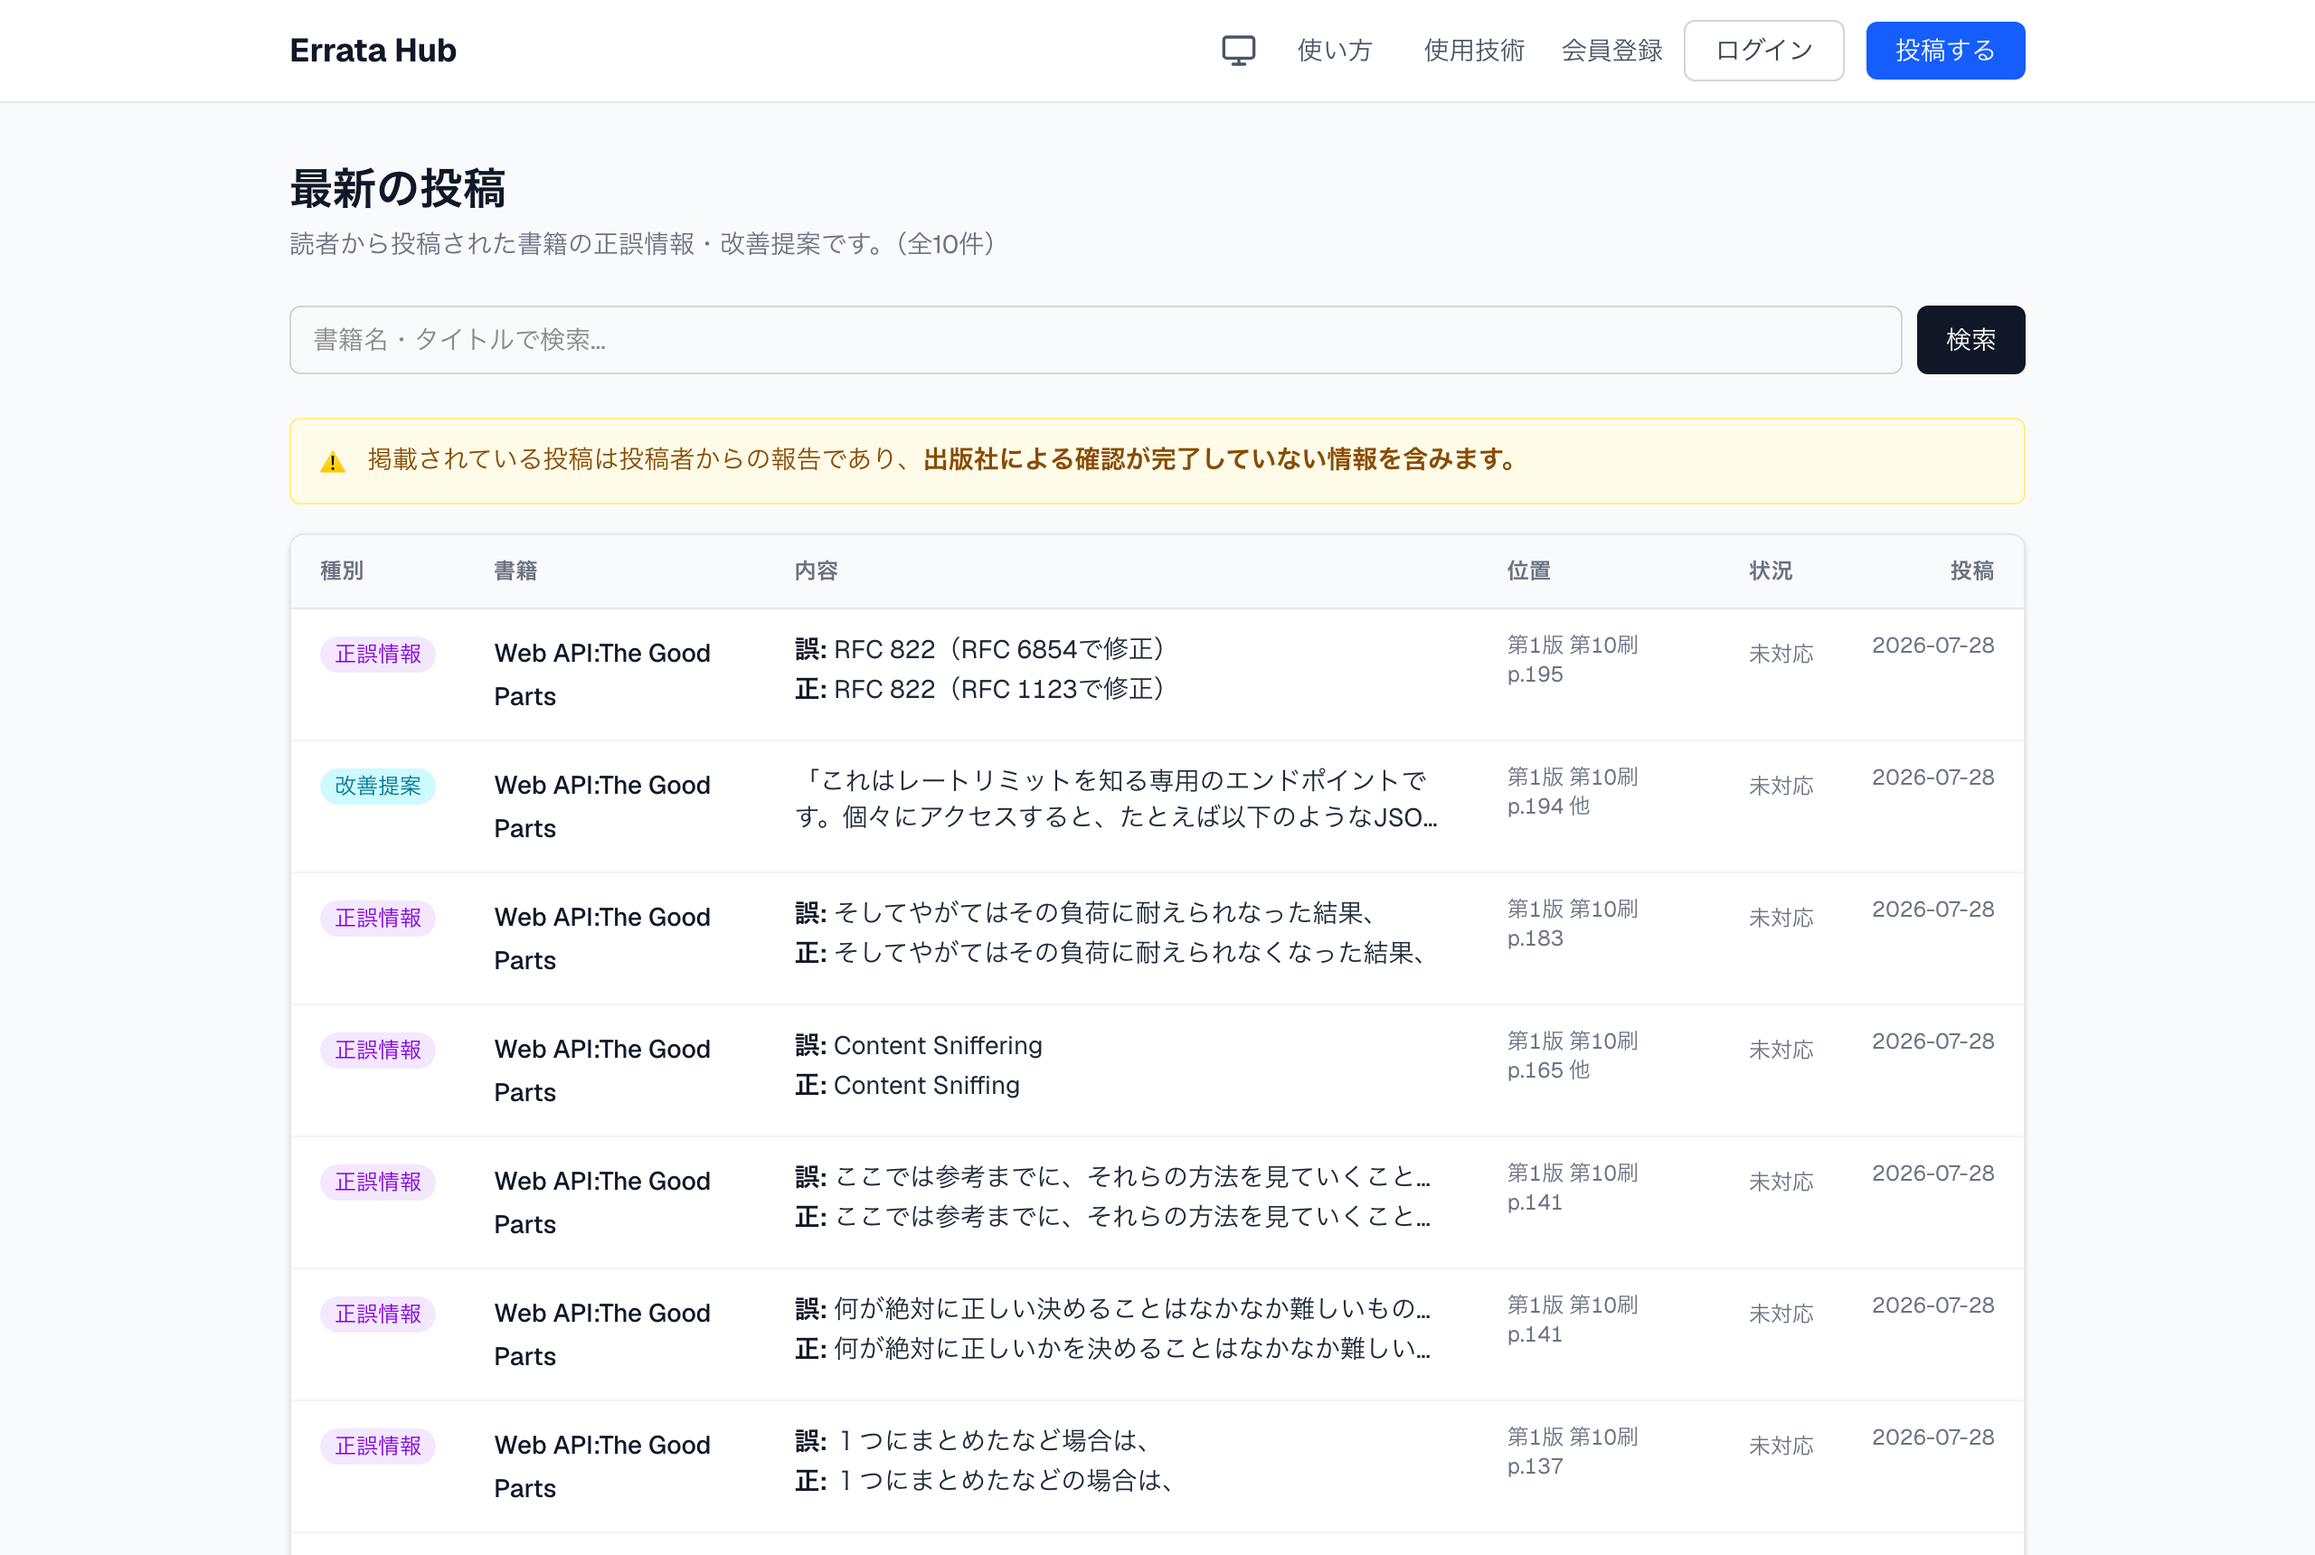
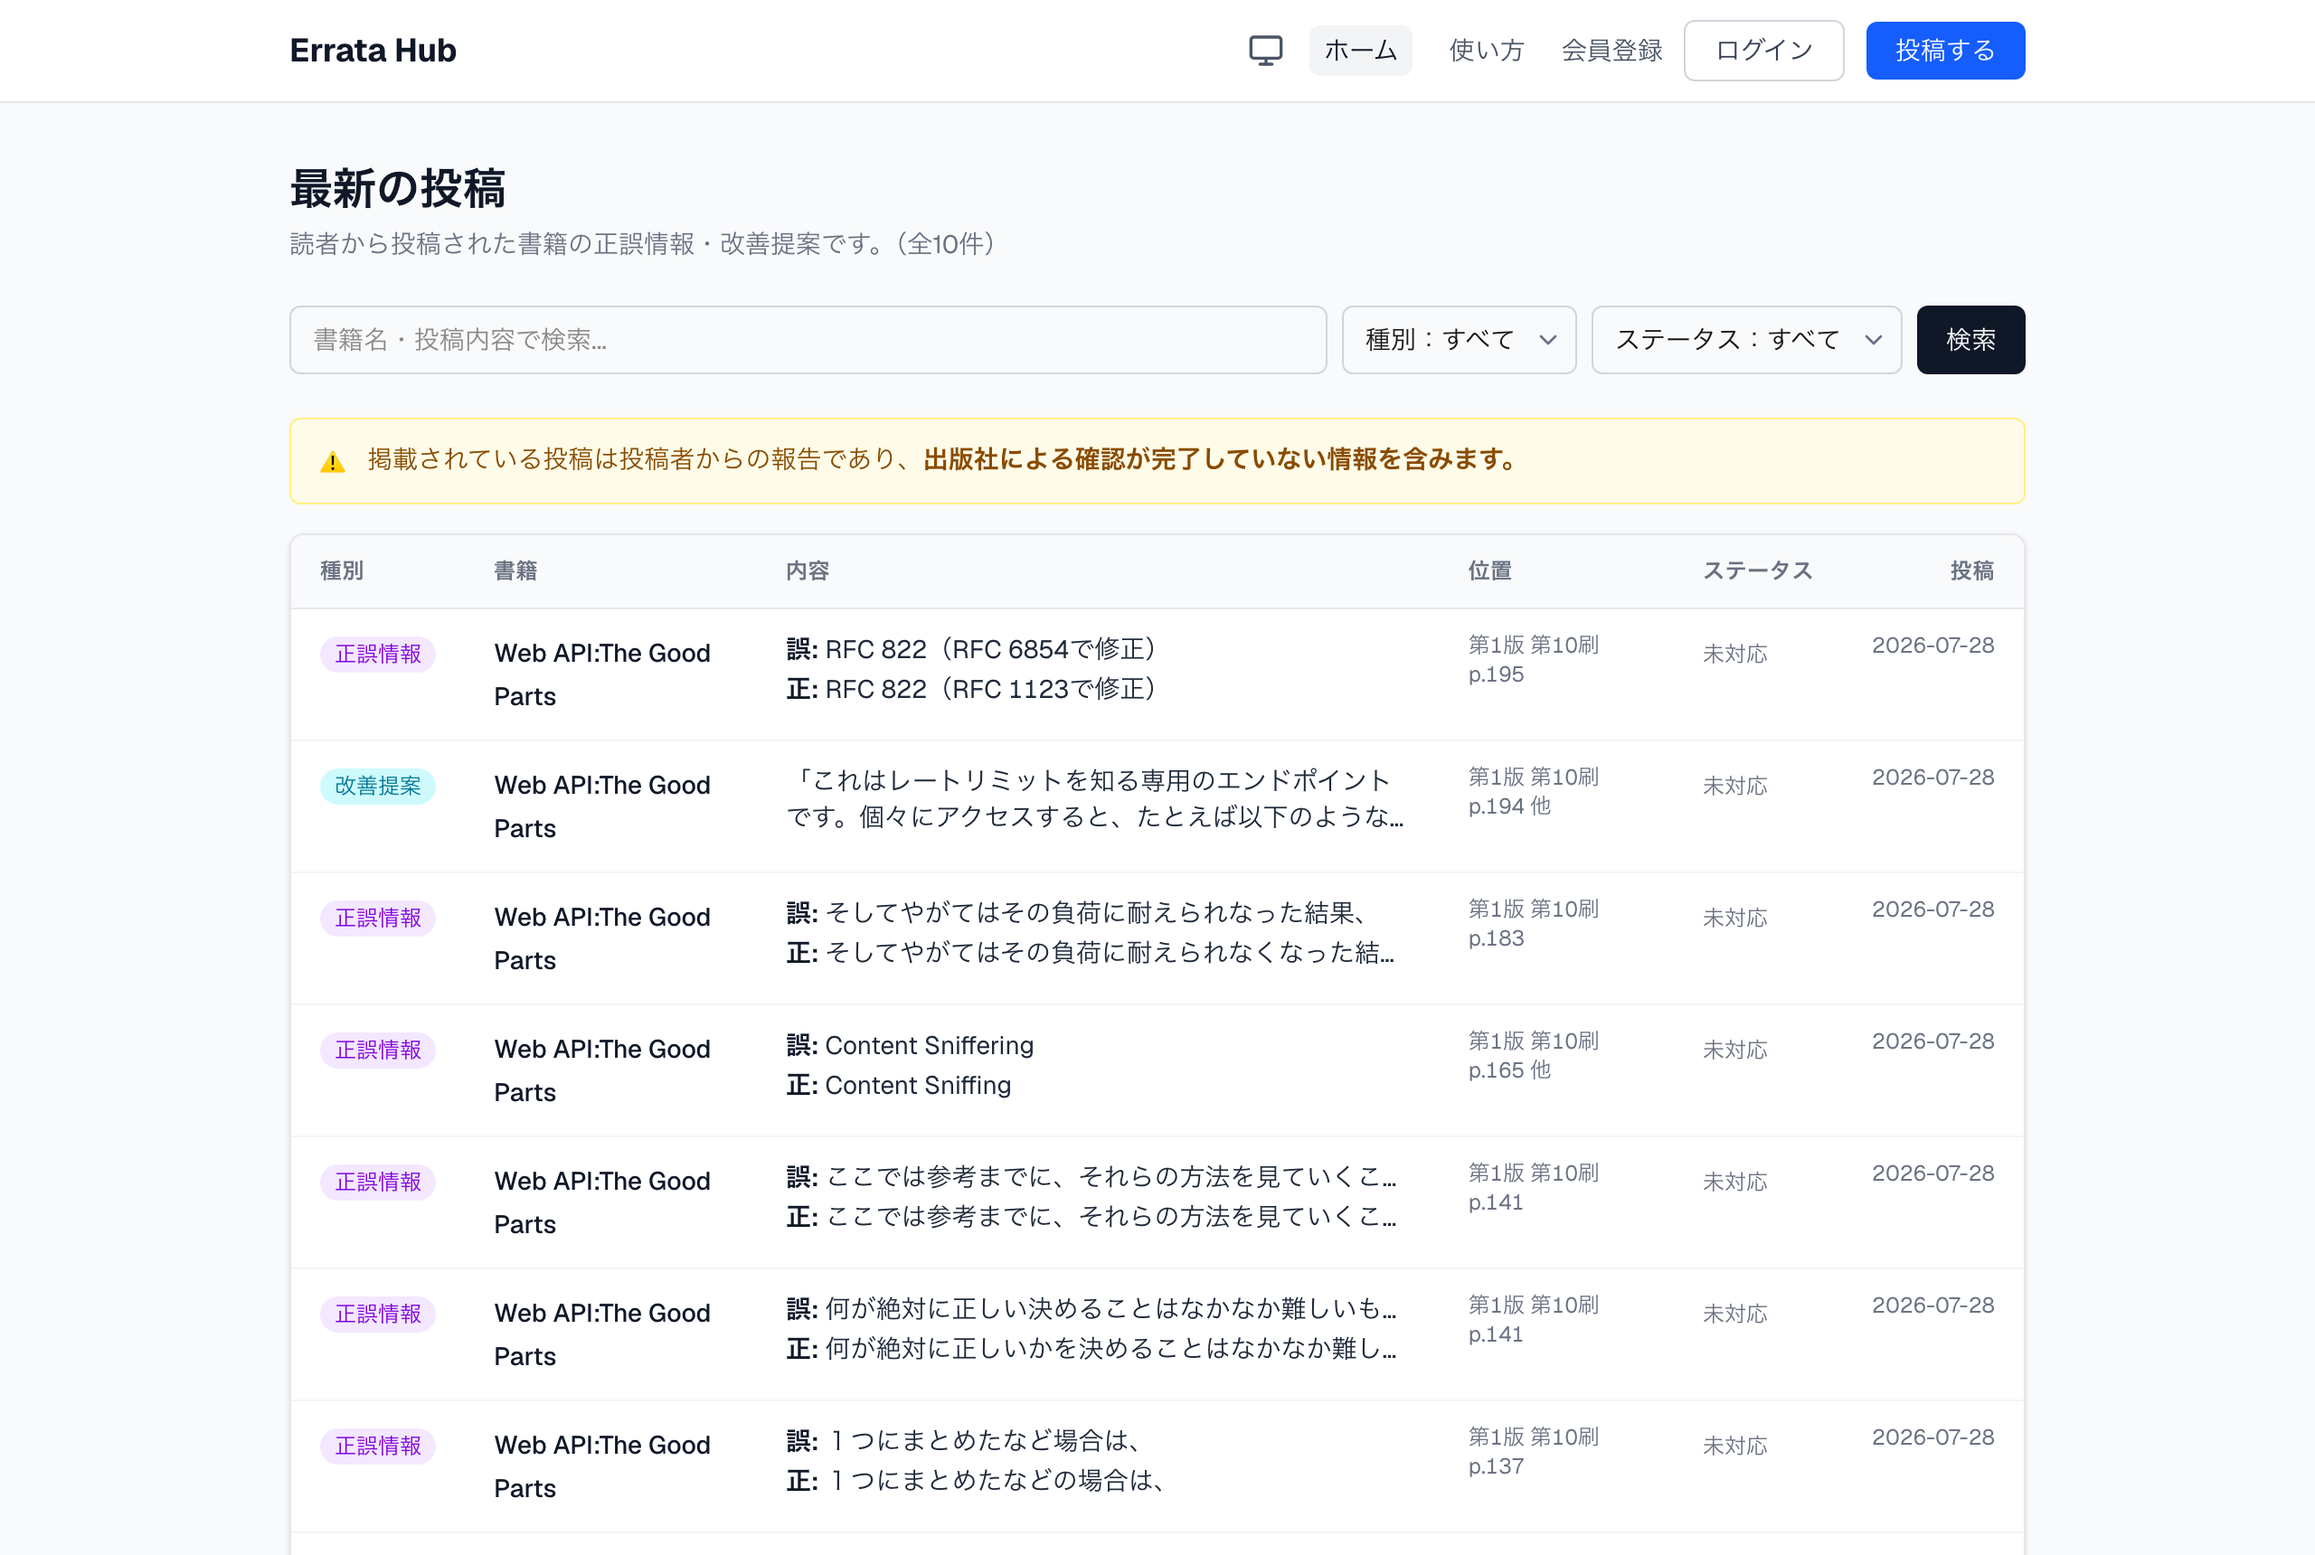
docs(readme): スクショを撮り直し、古くなった情報を実測に合わせる
08-15（PR#205）以降に実物とズレた箇所を、2026-08-20 に測り直して直す。

- スクショ（docs/screenshot-top.png）を本番から撮り直し。前回と同じ条件
  （1280x860・deviceScaleFactor 2・ライト）で、プロジェクトの Playwright を使う
- alt テキストの列名「状況」→「ステータス」。#234 で列見出しを改名済みで、
  画像だけ差し替えても文が嘘のまま残る状態だった
- 規模: コミット 516→597 / マージ済み PR 190→221
- テスト: 単体 331→346 / e2e 186→208（e2e は auth-setup の1件を除いた数）
- 「対応状況」→「ステータス」に統一（3箇所）。アプリの UI はステータスで統一されており、
  用語の正は /how-to-use の「ステータスの意味」。
  ⚠ 規約の「対応状況」は意図的に別語なので、そちらは触っていない
- src/lib と src/services の説明が実物と違っていた（withdrawal.ts は lib にある）
- components/ui の一覧に button と select-field が抜けていた
- report-fields.tsx の「6箇所から使われる」は数が動くので、共有している画面の名前に置き換えた
  （数字は増減のたびに嘘になる。1083箇所の件と同じ）
- 開発コマンドの表に npm run test:e2e を足した（e2e の件数を載せているのに実行方法が無かった）

diff --git a/README.md b/README.md
@@ -6,18 +6,18 @@
 
 ### 🔗 https://errata-hub.vercel.app
 
-投稿には誤りの箇所（ページ・行や版・刷）を添えられ、出版社からの回答・対応状況は管理者が記録して公開します。
+投稿には誤りの箇所（ページ・行や版・刷）を添えられ、出版社からの回答とステータスは管理者が記録して公開します。
 
-> ℹ 掲載されている投稿は投稿者からの報告であり、出版社の回答がつくまでは未確認の情報です。各投稿に表示される出版社の回答・対応状況とあわせてご確認ください。
+> ℹ 掲載されている投稿は投稿者からの報告であり、出版社の回答がつくまでは未確認の情報です。各投稿に表示される出版社の回答・ステータスとあわせてご確認ください。
 
-![Errata Hub のトップページ。書籍名で検索でき、投稿が種別・書籍・内容・位置・状況の表で一覧される](docs/screenshot-top.png)
+![Errata Hub のトップページ。書籍名で検索でき、投稿が種別・書籍・内容・位置・ステータス・投稿日の表で一覧される](docs/screenshot-top.png)
 
 | | |
 |---|---|
 | **開発体制** | 個人開発（要件・設計・実装・運用・法務文書まで） |
 | **期間** | 2026-06 〜 継続中（本番公開・検索インデックス済み） |
-| **規模** | コミット 516 / マージ済み PR 190 |
-| **テスト** | 単体 331 件（Vitest）/ e2e 186 件（Playwright） |
+| **規模** | コミット 597 / マージ済み PR 221 |
+| **テスト** | 単体 346 件（Vitest）/ e2e 208 件（Playwright） |
 | **運用** | Vercel 本番稼働 / GitHub Actions で CI / Dependabot / CodeQL |
 
 <sub>※ 数値は 2026-08 時点。</sub>
@@ -42,7 +42,7 @@
 - **賛同（自分も見つけた）** — 同じ誤りを見つけた読者が投稿に賛同できる。賛同数は一覧・詳細に表示
 - **公開ページ** — トップ（最新投稿）・全投稿の検索/絞り込み・書籍別一覧・投稿詳細・ユーザー別投稿一覧
 - **認証** — Supabase Auth（メール確認・PKCE code フロー）/ GitHub ログイン / パスワード再発行 / 退会（匿名化）
-- **管理画面** — 対応状況の更新、出版社マスタ管理、ユーザー/ロール管理、出版社アクセスの付与、操作ログ（監査ログ）
+- **管理画面** — ステータスの更新、出版社マスタ管理、ユーザー/ロール管理、出版社アクセスの付与、操作ログ（監査ログ）
 - **ダークモード** — OS の設定に追従＋手動トグル
 
 ---
@@ -183,6 +183,7 @@ http://localhost:3000 を開く。ローカル Studio は http://127.0.0.1:54323
 | `npm run lint` | ESLint |
 | `npm test` | 単体テスト（Vitest・1回実行） |
 | `npm run test:watch` | 単体テスト（ウォッチモード） |
+| `npm run test:e2e` | e2e テスト（Playwright。ローカルの dev サーバーに対して実行） |
 
 型チェックは `npx tsc --noEmit` で実行できます。これら（lint / typecheck / test / build）は push・PR ごとに [GitHub Actions](.github/workflows/ci.yml) でも自動実行されます。
 
@@ -237,8 +238,8 @@ src/
 ├── components/   フィーチャーに属さない UI（下記）
 ├── constants/    横断する定数（routes, site, rate-limits など）
 ├── generated/    Prisma 自動生成（編集不可・gitignore）
-├── lib/          外部ライブラリのラッパー（prisma / supabase / utils）
-├── services/     横断するロジック・認可（auth, audit, withdrawal, publisher-access）
+├── lib/          外部ライブラリのラッパーと横断する小物（prisma / supabase / rate-limit / withdrawal）
+├── services/     横断するロジック・認可（auth, audit, publisher-access）
 └── utils/        横断する純粋関数（ISBN 正規化・整形など）
 docs/             設計・学習メモ・ER 図
 ```
@@ -296,7 +297,8 @@ src/features/report/
 
 ```
 src/components/
-├── ui/         ドメインもルーティングも知らない部品（icons, nav-link, number-field, theme-toggle）
+├── ui/         ドメインもルーティングも知らない部品（button, icons, nav-link, number-field,
+│               select-field, theme-toggle）
 ├── layout/     全ページの外側を作るもの（site-shell, site-header, header-nav, footer,
 │               breadcrumbs, legal, legal-shell, error-content, not-found-content）
 └── admin/      管理画面の共通 UI（ページ送り）
@@ -311,8 +313,8 @@ src/components/
 5. **複数のフィーチャーが使う関数・定数** → `utils/` `constants/` `services/`
 
 「共通かどうか」では分けない。共通性は使われている箇所の数であって、置き場所で表せる性質ではないため
-（`features/report/components/report-fields.tsx` は6箇所から使われる共通部品だが、
-投稿を知っているので `components/ui/` には入らない）。
+（`features/report/components/report-fields.tsx` は投稿・編集・追記・取り下げ・出版社からの回答が
+共有している部品だが、投稿を知っているので `components/ui/` には入らない）。
 
 ### テストの置き場所と分担
 
